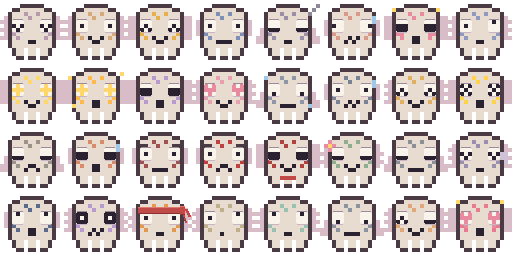
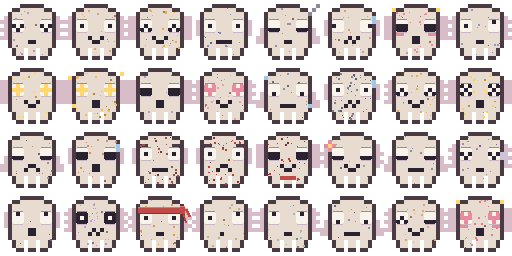
feat: sepia's chromatophores go sub-pixel, density carries state
Fine seeded speckle replaces the seven fixed freckle blocks - an
affordance evolved for survival in a high-res world. Density maps
arousal on real cuttlefish lines: awe and surprise blanch (~4 dots),
peace barely speckles, anxiety mottles hardest (~38 - trying to
disappear), anger storms dark. Deterministic per mood, mantle-masked.
Animated sheets parked on the bench with the APNG path and the
clean-loop caution recorded.

diff --git a/scripts/gen-sepia.js b/scripts/gen-sepia.js
@@ -77,7 +77,27 @@ const MOUTH = {
   wavy: [[6,10],[7,9],[8,10],[9,9]],
   tiny: [[7,10]]
 };
-const FRECK = [[6,3],[9,3],[7,4],[3,8],[12,8],[4,9],[11,9]];
+// Chromatophores are SUB-PIXEL — an affordance evolved for survival in a high-res world.
+// Density is arousal, camouflage is a state: awe/surprise BLANCH (real cuttlefish fear
+// response), peace barely speckles (nothing to hide), anxiety mottles hardest (trying to
+// disappear), anger storms dark. Seeded per mood → deterministic sheets.
+const DENSITY = {
+  awe: 4, surprised: 5, at_peace: 7, solemn: 7, sleepy: 8, weary: 8,
+  melancholy: 11, focused: 12, groan: 12, neutral: 13, thinking: 13, asking: 13,
+  sheepish: 13, puzzled: 13, content: 14, rhyme: 14, oops: 14, wink: 15,
+  mirth: 19, delighted: 20, spark: 20, booped: 20, tender: 22, resolute: 22,
+  vertigo: 24, love: 24, excited: 26, laugh: 26, dramatic: 26,
+  frustrated: 32, angry: 34, anxious: 38
+};
+function rng(seed) {
+  let a = seed >>> 0;
+  return function () {
+    a |= 0; a = a + 0x6D2B79F5 | 0;
+    let t = Math.imul(a ^ a >>> 15, 1 | a);
+    t = t + Math.imul(t ^ t >>> 7, 61 | t) ^ t;
+    return ((t ^ t >>> 14) >>> 0) / 4294967296;
+  };
+}
 const mirror = px => px.map(q => [15 - q[0], q[1]]);
 function eyes(preset) {
   if (preset === "heart") return HEART.concat(mirror(HEART)).map(q => [q[0], q[1], "F"]);
@@ -160,7 +180,6 @@ MOODS.forEach((mood, i) => {
   const frill = FRILL[FRILL_OF[mood[0]] || "ripple"];
   frill.concat(mirror(frill)).forEach(q => cellPut(cx, cy, q[0], q[1], COLORS.n));
   mood[1].concat(mood[2], mood[4] || []).forEach(q => cellPut(cx, cy, q[0], q[1], COLORS[q[2]]));
-  FRECK.forEach(q => cellPut(cx, cy, q[0], q[1], mood[3]));
 
   // ---- the fine pass: sub-pixel ink. Doctrine: the BODY lives on the 4px grid (the
   // chunkiness is the body); body *definition* may use 2px half-resolution ink; objects
@@ -177,6 +196,25 @@ MOODS.forEach((mood, i) => {
   };
   softenEye(12);                                // left eye (logical cols 3-5, rows 5-7)
   softenEye(40);                                // right eye (cols 10-12)
+
+  // chromatophores: seeded fine speckle over the mantle, density per mood
+  {
+    const r = rng(i * 7919 + 13);
+    const hue = mood[3];
+    const dark = "#" + hex(hue).map(v => Math.max(0, Math.round(v * 0.72)).toString(16).padStart(2, "0")).join("");
+    const n = DENSITY[mood[0]] != null ? DENSITY[mood[0]] : 14;
+    let placed = 0, tries = 0;
+    while (placed < n && tries < n * 14) {
+      tries++;
+      const x = 8 + Math.floor(r() * 48), y = 6 + Math.floor(r() * 52);
+      if (BASE[y >> 2][x >> 2] !== "b") continue;                             // mantle only
+      if (y >= 19 && y <= 33 && ((x >= 11 && x <= 24) || (x >= 39 && x <= 52))) continue;   // eyes + lashes
+      if (x >= 22 && x <= 41 && y >= 34 && y <= 44) continue;                 // mouth zone
+      const s = r() < 0.45 ? 2 : 1;
+      frect(x, y, s, s, r() < 0.25 ? dark : hue);
+      placed++;
+    }
+  }
 
   if (mood[0] === "resolute") {                 // the hachimaki: crisp cloth from the high-res world
     const R = "#c04a48", Rd = "#8a3230", Rh = "#e07a70";

diff --git a/DESIGN.md b/DESIGN.md
@@ -159,6 +159,15 @@ Every mapping in the grammar passes all three. Proposals that don't, get reshape
 - **Flag composition.** Grammar-level composition was removed deliberately when the roster
   hit twenty; see the API decision above. Don't reintroduce it as a feature.
 
+- **Sepia's chromatophores are sub-pixel, and density is a signal (v0.9.x).** The
+  maintainer's framing: fine coloration is an affordance the creature evolved for survival
+  in a high-resolution world. Real cuttlefish biology drives the mapping — awe/surprise
+  BLANCH (fear response, ~4 dots), peace barely speckles (nothing to hide), arousal
+  densifies, anxiety mottles hardest of all (~38 dots — trying to disappear), anger storms
+  dark. Seeded per mood, deterministic, mantle-masked (eyes/lashes/mouth excluded). The
+  general sub-pixel doctrine: the body lives on the 4px grid; body definition uses fine
+  ink sparingly (lash-lines); worldly objects (the hachimaki) render at true 1px.
+
 ## The bench
 
 Entered, not admitted. If you take one up, honor the notes.
@@ -166,6 +175,14 @@ Entered, not admitted. If you take one up, honor the notes.
 - **`overwhelmed`** — capacity flooded; fluttering rects falling through the frame.
   Composition hazard: reads confusingly against melancholy's falling motes — differentiate
   by tumble-rotation vs. straight drift before admitting.
+- **Animated face sheets (moving chromatophores)** — the maintainer's musing: coloration
+  that drifts, GIF-style. Technical path if attempted: extend scripts/gen-sepia.js's
+  hand-rolled PNG encoder to APNG (acTL/fcTL/fdAT chunks) rather than writing a GIF-LZW
+  encoder; phase-lock every dot's cycle to one shared period so the loop closes cleanly
+  (the maintainer's explicit caution). BLOCKER to verify first: whether animated images
+  actually animate inside SVG <image> elements per browser — historically inconsistent,
+  and the face renders through a nested-svg crop. Don't build until that's tested on the
+  real surfaces.
 - **`mischief`** — about-to-do-something-playful, distinct from mirth's private amusement.
   Genuinely entered, but every good gesture found so far requires editing the face, which
   the architecture correctly forbids (the kaomoji is caller-supplied opaque text; whole-face